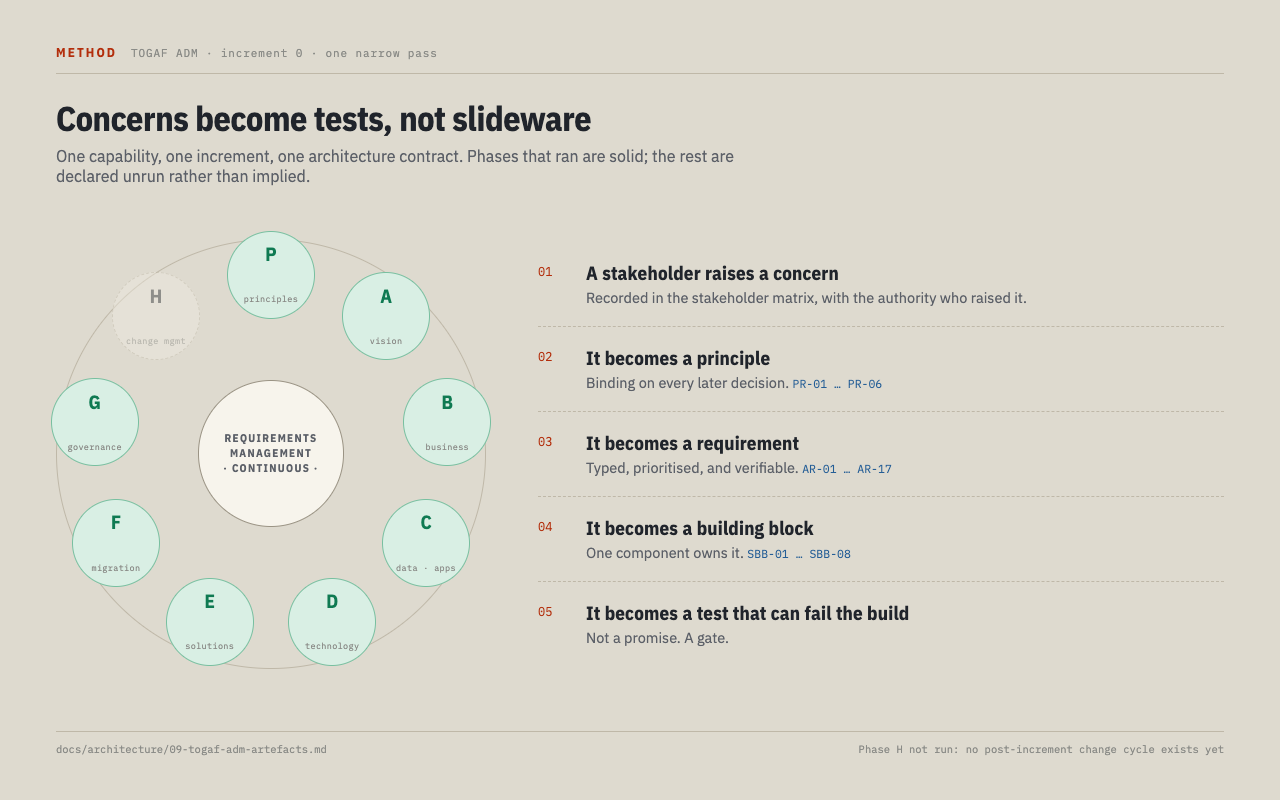
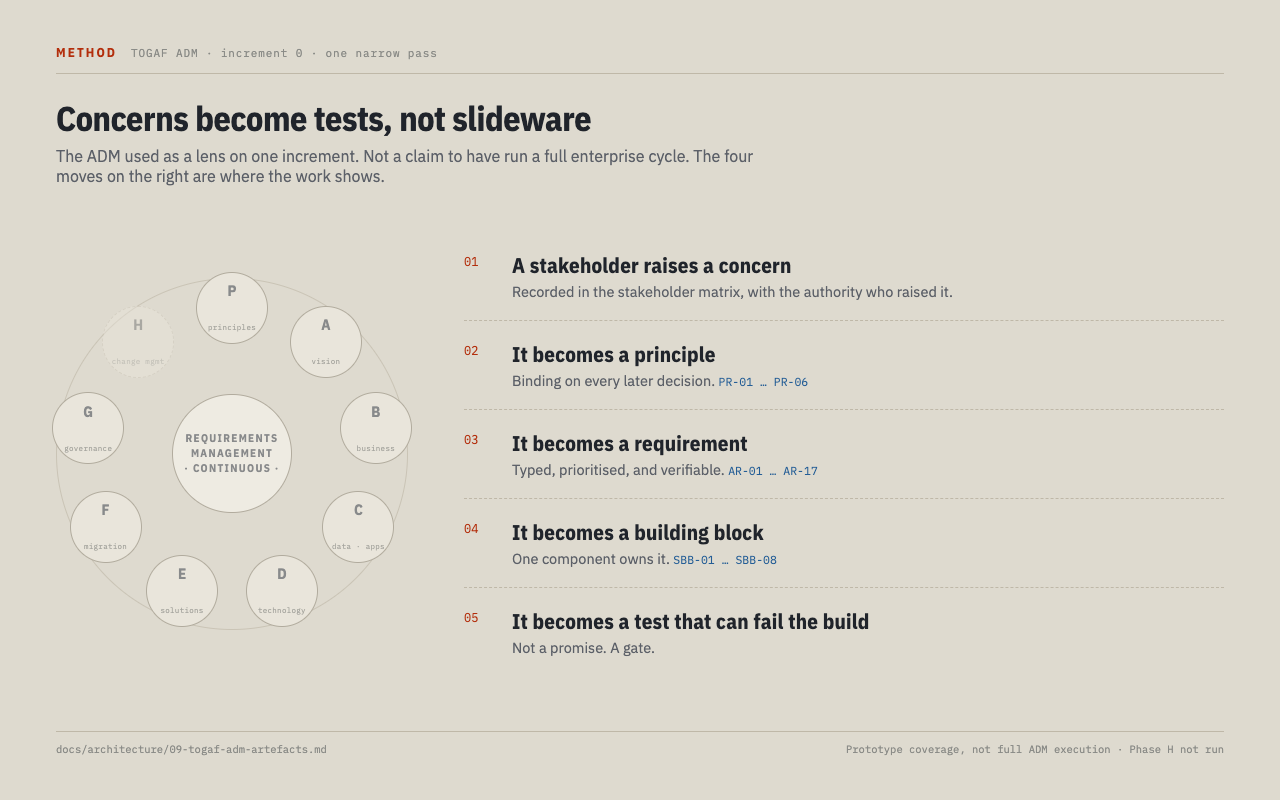
fix: apply the review's corrections to the three TOGAF slides
Slide A no longer green-lights eight phases. The ring goes quiet in the
background, the five moves the narration actually names take the frame, and the
footer states prototype coverage rather than implying a completed enterprise
cycle. Highlighting most of an ADM ring is a claim this increment cannot make.

Slide B named the wrong test. It credited test_tier_four_is_denied_for_every_
role with failing the build if a model is consulted, which that test does not
check. The verification row now reads "The policy path never invokes a model"
in plain language, with the guard that actually makes the claim underneath it.

Slide C is a split beat. The narration on that beat is about the inconsistency
the review caught, so the requirements table holds the first six seconds alone
and the correction arrives after. Both at once said neither.

diff --git a/docs/design/togaf-slides.html b/docs/design/togaf-slides.html
@@ -45,33 +45,33 @@ h1{font-family:var(--cond);font-size:34px;font-weight:700;letter-spacing:-.01em;
 .sub{color:var(--ink-dim);font-size:16px;max-width:74ch}
 
 /* ---------------------------------------------------------------- slide A: the ADM */
-.adm{flex:1;display:grid;grid-template-columns:430px 1fr;gap:52px;align-items:center;margin-top:4px}
-.wheel{position:relative;width:430px;height:430px}
+.adm{flex:1;display:grid;grid-template-columns:352px 1fr;gap:56px;align-items:center;margin-top:4px}
+.wheel{position:relative;width:352px;height:352px;opacity:.66}
 .wheel .ring{position:absolute;inset:0;border-radius:50%;border:1px solid var(--rule)}
 .wheel .hub{position:absolute;inset:33%;border-radius:50%;background:var(--raise);
   border:1px solid var(--rule-hi);display:grid;place-items:center;text-align:center;padding:10px}
 .wheel .hub u{font-family:var(--cond);font-size:11px;letter-spacing:.12em;text-transform:uppercase;
   color:var(--ink-dim);text-decoration:none;line-height:1.35}
-.ph{position:absolute;width:88px;height:88px;margin:-44px 0 0 -44px;border-radius:50%;
+.ph{position:absolute;width:72px;height:72px;margin:-36px 0 0 -36px;border-radius:50%;
   background:var(--plate);border:1px solid var(--rule);display:grid;place-items:center;text-align:center}
-.ph b{font-family:var(--cond);font-size:19px;font-weight:700;line-height:1}
-.ph i{font-family:var(--mono);font-size:8.5px;font-style:normal;color:var(--ink-faint);
+.ph b{font-family:var(--cond);font-size:15px;font-weight:700;line-height:1}
+.ph i{font-family:var(--mono);font-size:7.5px;font-style:normal;color:var(--ink-faint);
   letter-spacing:.04em;display:block;margin-top:3px;max-width:74px}
-.ph.on{background:var(--ok-bg);border-color:var(--ok-line)}
-.ph.on b{color:var(--malachite)}
+.ph.on{background:var(--plate);border-color:var(--rule-hi)}
+.ph.on b{color:var(--ink-dim)}
 .ph.off{opacity:.42;border-style:dashed}
 
 .moves{display:flex;flex-direction:column;gap:0}
 .mv{display:grid;grid-template-columns:32px 1fr;gap:16px;padding:19px 0;border-bottom:1px dashed var(--rule)}
 .mv:last-child{border-bottom:0}
 .mv u{font-family:var(--mono);font-size:12px;color:var(--haematite);text-decoration:none;padding-top:3px}
-.mv b{font-family:var(--cond);font-size:19px;letter-spacing:.01em}
+.mv b{font-family:var(--cond);font-size:21px;letter-spacing:.01em}
 .mv span{display:block;color:var(--ink-dim);font-size:14.5px;margin-top:3px}
 .mv code{font-family:var(--mono);font-size:11.5px;color:var(--survey)}
 
 /* ------------------------------------------------------------- slide B: the chain */
 .chain{flex:1;display:flex;flex-direction:column;justify-content:center;gap:0}
-.lk{display:grid;grid-template-columns:158px 1fr 254px;gap:20px;align-items:center;
+.lk{display:grid;grid-template-columns:150px 1fr 340px;gap:18px;align-items:center;
   padding:21px 20px;background:var(--plate);border:1px solid var(--rule);clip-path:var(--chamfer);
   opacity:0;transform:translateX(-14px);transition:opacity .5s ease,transform .5s ease}
 .lk.show{opacity:1;transform:none}
@@ -83,7 +83,7 @@ h1{font-family:var(--cond);font-size:34px;font-weight:700;letter-spacing:-.01em;
 .lk u{font-family:var(--cond);font-size:11px;letter-spacing:.14em;text-transform:uppercase;
   color:var(--ink-faint);text-decoration:none}
 .lk b{font-family:var(--sans);font-weight:600;font-size:18px;display:block;margin-top:4px}
-.lk .id{font-family:var(--mono);font-size:12px;color:var(--survey);text-align:right}
+.lk .id{font-family:var(--mono);font-size:11px;line-height:1.5;color:var(--survey);text-align:right}
 .lk.q{background:var(--raise);border-color:var(--rule-hi)}
 .lk.q b{font-style:italic}
 .lk.t{background:var(--ok-bg);border-color:var(--ok-line)}
@@ -102,7 +102,9 @@ td{padding:7px 8px 7px 0;border-bottom:1px solid rgba(191,184,168,.42);vertical-
 td.k{font-family:var(--mono);color:var(--haematite);white-space:nowrap}
 td.v{font-family:var(--mono);font-size:12px;color:var(--malachite);white-space:nowrap}
 tr.hi td{background:var(--ok-bg)}
-.fix{display:flex;flex-direction:column;gap:14px;align-self:start}
+.fix{display:flex;flex-direction:column;gap:14px;align-self:start;
+  opacity:0;transform:translateX(16px);transition:opacity .6s ease,transform .6s ease}
+.fix.show{opacity:1;transform:none}
 .fix .cap{font-family:var(--cond);font-size:11px;letter-spacing:.14em;text-transform:uppercase;color:var(--ink-faint)}
 .box{padding:16px 18px;border:1px solid var(--rule);background:var(--plate);clip-path:var(--chamfer)}
 .box.bad{background:var(--hot-bg);border-color:var(--hot-line)}
@@ -122,8 +124,8 @@ tr.hi td{background:var(--ok-bg)}
 <section class="slide" id="a">
   <div class="head"><b>Method</b><span>TOGAF ADM · increment 0 · one narrow pass</span></div>
   <h1>Concerns become tests, not slideware</h1>
-  <p class="sub">One capability, one increment, one architecture contract. Phases that ran
-    are solid; the rest are declared unrun rather than implied.</p>
+  <p class="sub">The ADM used as a lens on one increment. Not a claim to have run a full
+    enterprise cycle. The four moves on the right are where the work shows.</p>
   <div class="adm">
     <div class="wheel">
       <div class="ring"></div>
@@ -152,7 +154,7 @@ tr.hi td{background:var(--ok-bg)}
     </div>
   </div>
   <div class="foot"><span>docs/architecture/09-togaf-adm-artefacts.md</span>
-    <span>Phase H not run: no post-increment change cycle exists yet</span></div>
+    <span>Prototype coverage, not full ADM execution &middot; Phase H not run</span></div>
 </section>
 
 <!-- ========================================================== B · the traced chain -->
@@ -168,7 +170,7 @@ tr.hi td{background:var(--ok-bg)}
     <div class="arrow" data-step="4"></div>
     <div class="lk" data-step="4"><u>Building block</u><b>Deterministic policy service</b><span class="id">SBB-04 · app/policy/decisions.py</span></div>
     <div class="arrow" data-step="5"></div>
-    <div class="lk t" data-step="5"><u>Verification</u><b>test_tier_four_is_denied_for_every_role</b><span class="id">passing · fails the build if a model is called</span></div>
+    <div class="lk t" data-step="5"><u>Verification</u><b>The policy path never invokes a model</b><span class="id">test_policy_denial_does_not_touch_the_agent_layer<br>passing · patches three seams</span></div>
   </div>
   <div class="foot"><span>Every identifier resolves to a real artefact in this repository.</span>
     <span>Same chain for all 17 requirements</span></div>
@@ -197,7 +199,7 @@ tr.hi td{background:var(--ok-bg)}
       </table>
       <div class="cap" style="margin-top:9px">11 of 17 shown</div>
     </div>
-    <div class="fix">
+    <div class="fix" id="fix">
       <div class="cap">Caught in review, not by a test</div>
       <div class="box bad"><u>Shift target, as first written</u><div class="n">12,000 t</div>
         <p>A quarter of what the declared fleet and crusher could move in a twelve-hour shift.</p></div>
@@ -215,7 +217,7 @@ tr.hi td{background:var(--ok-bg)}
 
 <script>
 // Lay the eight phases plus Preliminary around the ring.
-const R = 179, C = 215;
+const R = 146, C = 176;
 [['pP',-90],['pA',-50],['pB',-10],['pC',30],['pD',70],['pE',110],['pF',150],['pG',190],['pH',230]]
   .forEach(([id, deg]) => {
     const r = deg * Math.PI / 180, el = document.getElementById(id);
@@ -226,6 +228,9 @@ const R = 179, C = 215;
 window.revealStep = (n) => document.querySelectorAll(`#b [data-step="${n}"]`)
   .forEach((el) => el.classList.add('show'));
 window.revealAll = () => { for (let i = 1; i <= 5; i++) window.revealStep(i); };
+// Slide C is a split beat. The narration is about the correction, so the table holds
+// the first seconds alone; arriving with both at once says neither.
+window.revealFix = () => document.getElementById('fix')?.classList.add('show');
 // Select from the hash, and keep following it. Navigating to a different hash on the
 // same document does not re-run this script, which silently left the first slide up.
 const pick = () => { document.body.dataset.slide = (location.hash.slice(1) || 'a'); };
